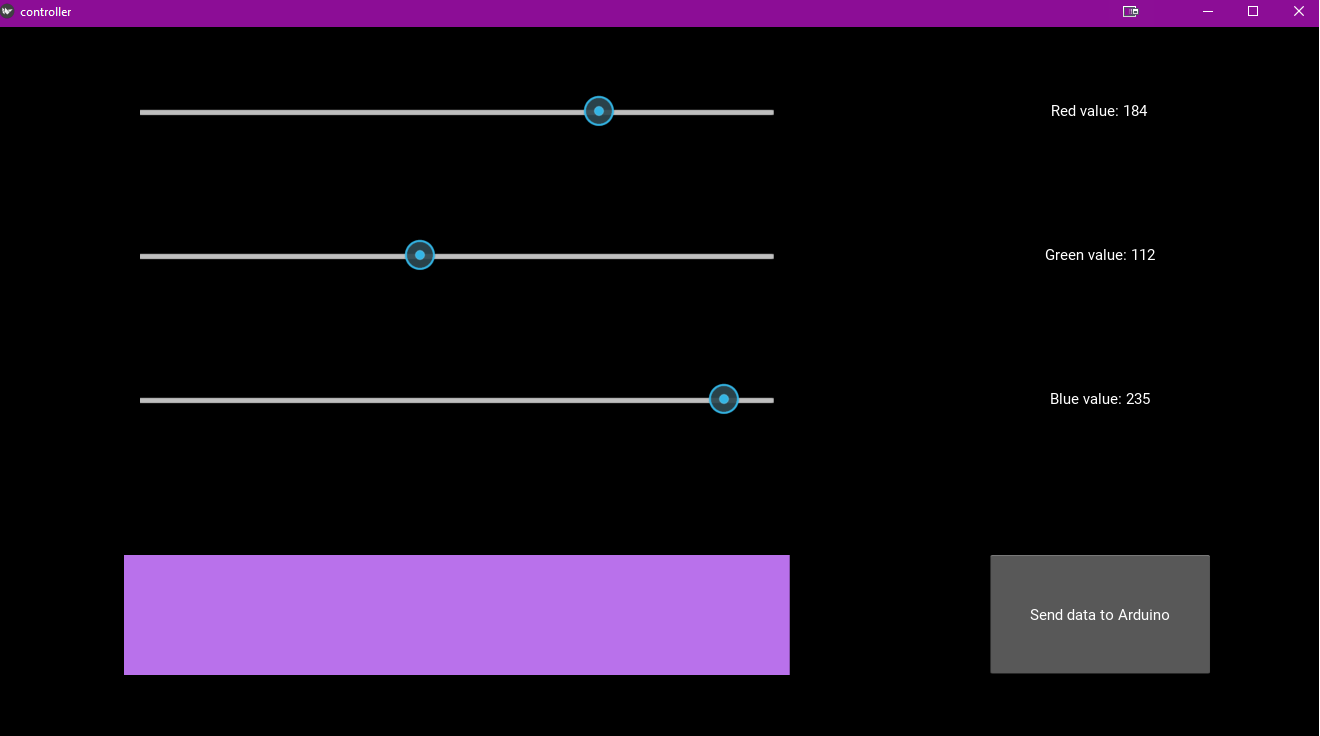
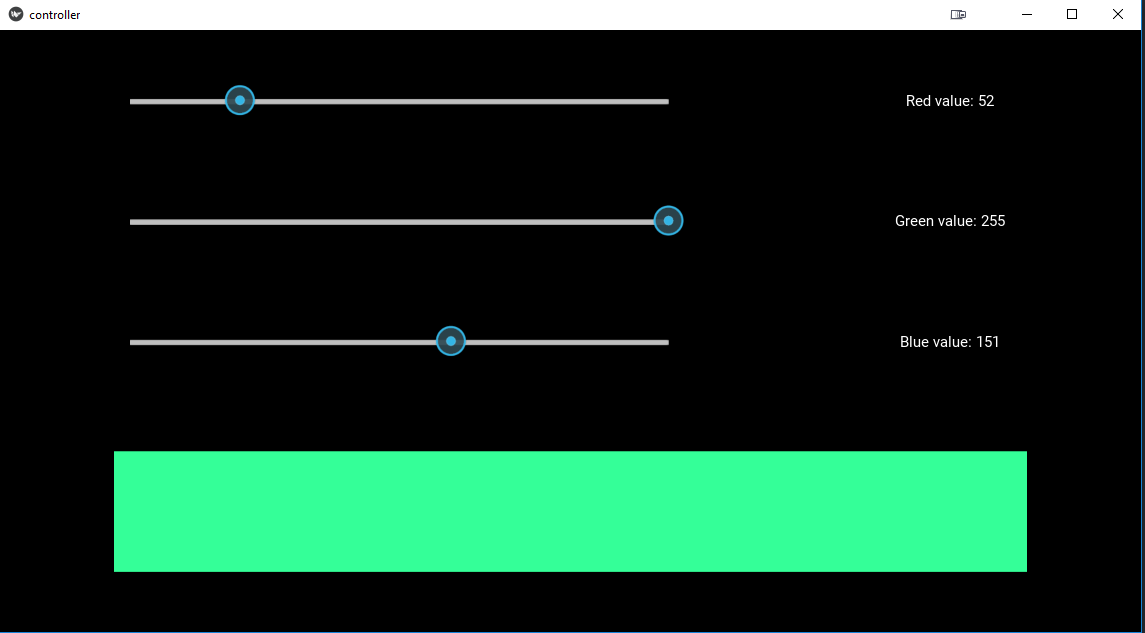
Removed the button

diff --git a/controller.py b/controller.py
@@ -4,11 +4,11 @@ from kivy.properties import ListProperty
 from kivy.uix.boxlayout import BoxLayout
 from kivy.uix.widget import Widget
 
-ARDUINO_PORT = 'com4'
+ARDUINO_PORT = 'com3'
 
 
 class Controller(Widget):
-    rgb = ListProperty([1, 0, 0])
+    rgb = ListProperty([0, 0, 0])
 
     def __init__(self):
         super(Controller, self).__init__()
@@ -16,13 +16,13 @@ class Controller(Widget):
         # open serial communication with arduino
         self.data = serial.Serial(ARDUINO_PORT, 9600)
 
-    def send_data(self, *args):
+    def change_color(self, color, value):
 
-        # join the color channels in a way that each value is 3 digits long
-        output = ''.join([str(int(i * 255)).zfill(3) for i in self.rgb])
+        new_color = f"{color}{str(int(value)).zfill(3)}"
+        colors = {'r': 0, 'g': 1, 'b': 2}
+        self.rgb[colors[color]] = value / 255.0
 
-        # send arduino the 9 digit long string converted to bytes
-        self.data.write(output.encode())
+        self.data.write(new_color.encode())
 
 
 class controllerApp(App):

diff --git a/README.md b/README.md
@@ -10,7 +10,7 @@ Customizable variables:
 
 ## Python packages
 
-- [kivy](https://kivy.org/docs/installation/installation-rpi.html)
+- [kivy](https://kivy.org/#download)
 - [serial](http://pyserial.readthedocs.io/en/latest/pyserial.html)
 
 ## Screenshots
